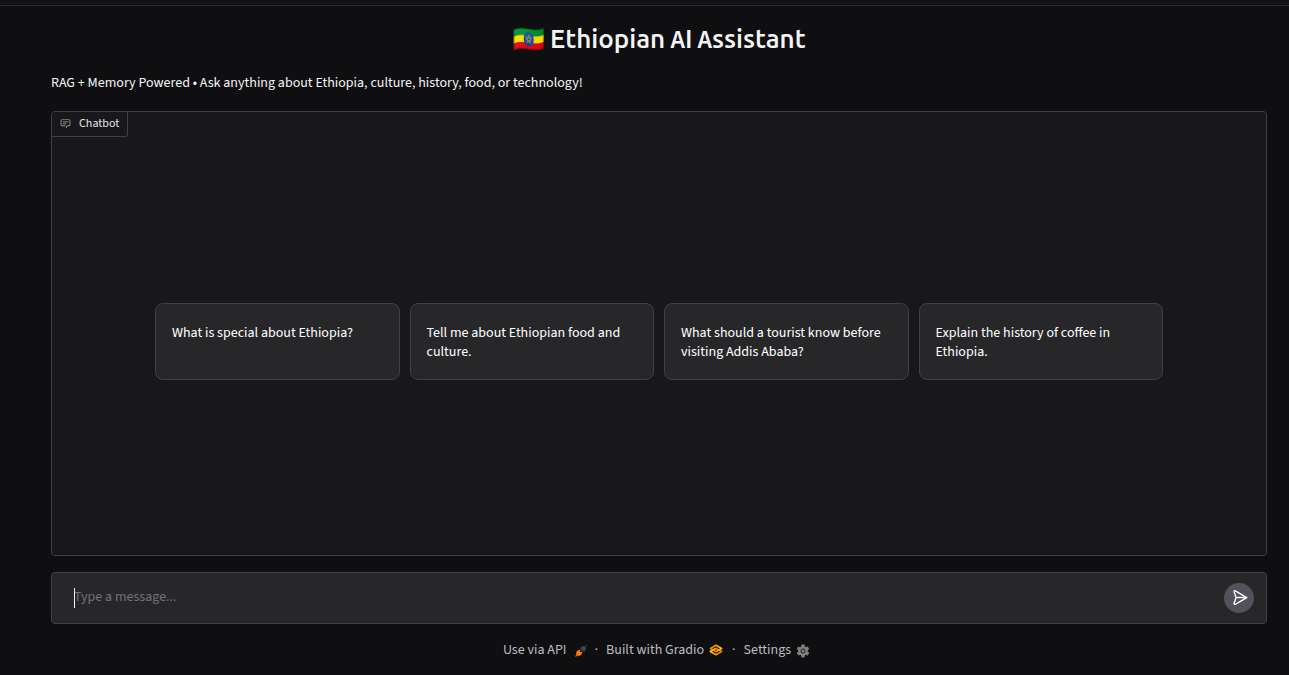
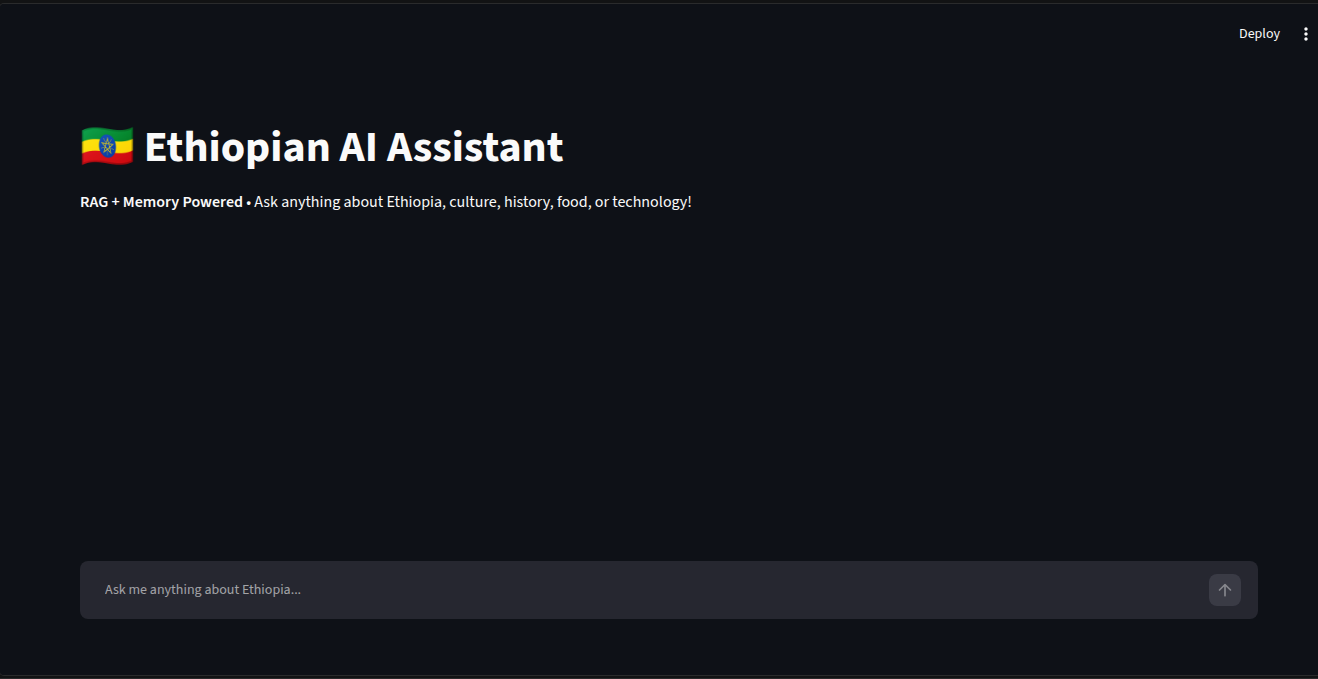
change ti smmit

diff --git a/projects/01-ethiopian-ai-assistant/app.py b/projects/01-ethiopian-ai-assistant/app.py
@@ -1,20 +1,24 @@
-import gradio as gr
+import streamlit as st
 from sentence_transformers import SentenceTransformer
 import faiss
 import numpy as np
 from transformers import AutoModelForCausalLM, AutoTokenizer, BitsAndBytesConfig
 import torch
 
-# ====================== LOAD KNOWLEDGE FROM FILE ======================
-def load_knowledge_base(file_path="knowledge_base.txt"):
+st.set_page_config(page_title="Ethiopian AI Assistant", page_icon="🇪🇹", layout="wide")
+
+st.title("🇪🇹 Ethiopian AI Assistant")
+st.markdown("**RAG + Memory Powered** • Ask anything about Ethiopia, culture, history, food, or technology!")
+
+# ====================== LOAD KNOWLEDGE ======================
[email redacted]_resource
+def load_knowledge_base():
     try:
-        with open(file_path, "r", encoding="utf-8") as f:
+        with open("knowledge_base.txt", "r", encoding="utf-8") as f:
             text = f.read()
-        knowledge_base = [line.strip() for line in text.strip().split("\n\n") if line.strip()]
-        print(f"✅ Loaded {len(knowledge_base)} knowledge entries from {file_path}")
-        return knowledge_base
-    except FileNotFoundError:
-        print(f"⚠️ {file_path} not found. Using default knowledge.")
+        knowledge = [line.strip() for line in text.strip().split("\n\n") if line.strip()]
+        return knowledge
+    except:
         return [
             "Addis Ababa is the capital and largest city of Ethiopia.",
             "Ethiopia is known as the cradle of humanity.",
@@ -26,31 +30,42 @@ def load_knowledge_base(file_path="knowledge_base.txt"):
 knowledge_base = load_knowledge_base()
 
 # ====================== EMBEDDINGS + VECTOR DB ======================
-embedder = SentenceTransformer('all-MiniLM-L6-v2')
-embeddings = embedder.encode(knowledge_base)
-index = faiss.IndexFlatL2(embeddings.shape[1])
-index.add(embeddings)
[email redacted]_resource
+def load_vector_db():
+    embedder = SentenceTransformer('all-MiniLM-L6-v2')
+    embeddings = embedder.encode(knowledge_base)
+    index = faiss.IndexFlatL2(embeddings.shape[1])
+    index.add(embeddings)
+    return embedder, index
+
+embedder, index = load_vector_db()
 
 # ====================== LOAD MODEL ======================
-model_name = "TinyLlama/TinyLlama-1.1B-Chat-v1.0"
-tokenizer = AutoTokenizer.from_pretrained(model_name)
-model = AutoModelForCausalLM.from_pretrained(
-    model_name,
-    quantization_config=BitsAndBytesConfig(
-        load_in_4bit=True,
-        bnb_4bit_quant_type="nf4",
-        bnb_4bit_compute_dtype=torch.float16,
-    ),
-    device_map="auto"
-)
[email redacted]_resource
+def load_model():
+    model_name = "TinyLlama/TinyLlama-1.1B-Chat-v1.0"
+    tokenizer = AutoTokenizer.from_pretrained(model_name)
+    model = AutoModelForCausalLM.from_pretrained(
+        model_name,
+        quantization_config=BitsAndBytesConfig(
+            load_in_4bit=True,
+            bnb_4bit_quant_type="nf4",
+            bnb_4bit_compute_dtype=torch.float16,
+        ),
+        device_map="auto"
+    )
+    return tokenizer, model
 
+tokenizer, model = load_model()
+
+# ====================== CHAT FUNCTION ======================
 def chatbot(message, history):
     # Retrieve relevant knowledge
     query_emb = embedder.encode([message])
     _, indices = index.search(query_emb, 3)
     context = "\n".join([knowledge_base[i] for i in indices[0]])
     
-    # Build prompt with history
+    # Build prompt
     history_text = "\n".join([f"User: {h[0]}\nAI: {h[1]}" for h in history[-4:]] if history else [])
     
     prompt = f"""You are a helpful, knowledgeable, and friendly Ethiopian AI assistant.
@@ -79,17 +94,21 @@ Assistant:"""
         response = response.split("Assistant:")[-1].strip()
     return response
 
-# ====================== GRADIO APP ======================
-demo = gr.ChatInterface(
-    fn=chatbot,
-    title="🇪🇹 Ethiopian AI Assistant",
-    description="RAG + Memory Powered • Ask anything about Ethiopia, culture, history, food, or technology!",
-    examples=[
-        "What is special about Ethiopia?",
-        "Tell me about Ethiopian food and culture.",
-        "What should a tourist know before visiting Addis Ababa?",
-        "Explain the history of coffee in Ethiopia."
-    ]
-)
+# ====================== STREAMLIT UI ======================
+if "messages" not in st.session_state:
+    st.session_state.messages = []
 
-demo.launch(share=True)
+for message in st.session_state.messages:
+    with st.chat_message(message["role"]):
+        st.markdown(message["content"])
+
+if prompt := st.chat_input("Ask me anything about Ethiopia..."):
+    st.session_state.messages.append({"role": "user", "content": prompt})
+    with st.chat_message("user"):
+        st.markdown(prompt)
+
+    with st.chat_message("assistant"):
+        response = chatbot(prompt, st.session_state.messages[:-1])
+        st.markdown(response)
+    
+    st.session_state.messages.append({"role": "assistant", "content": response})